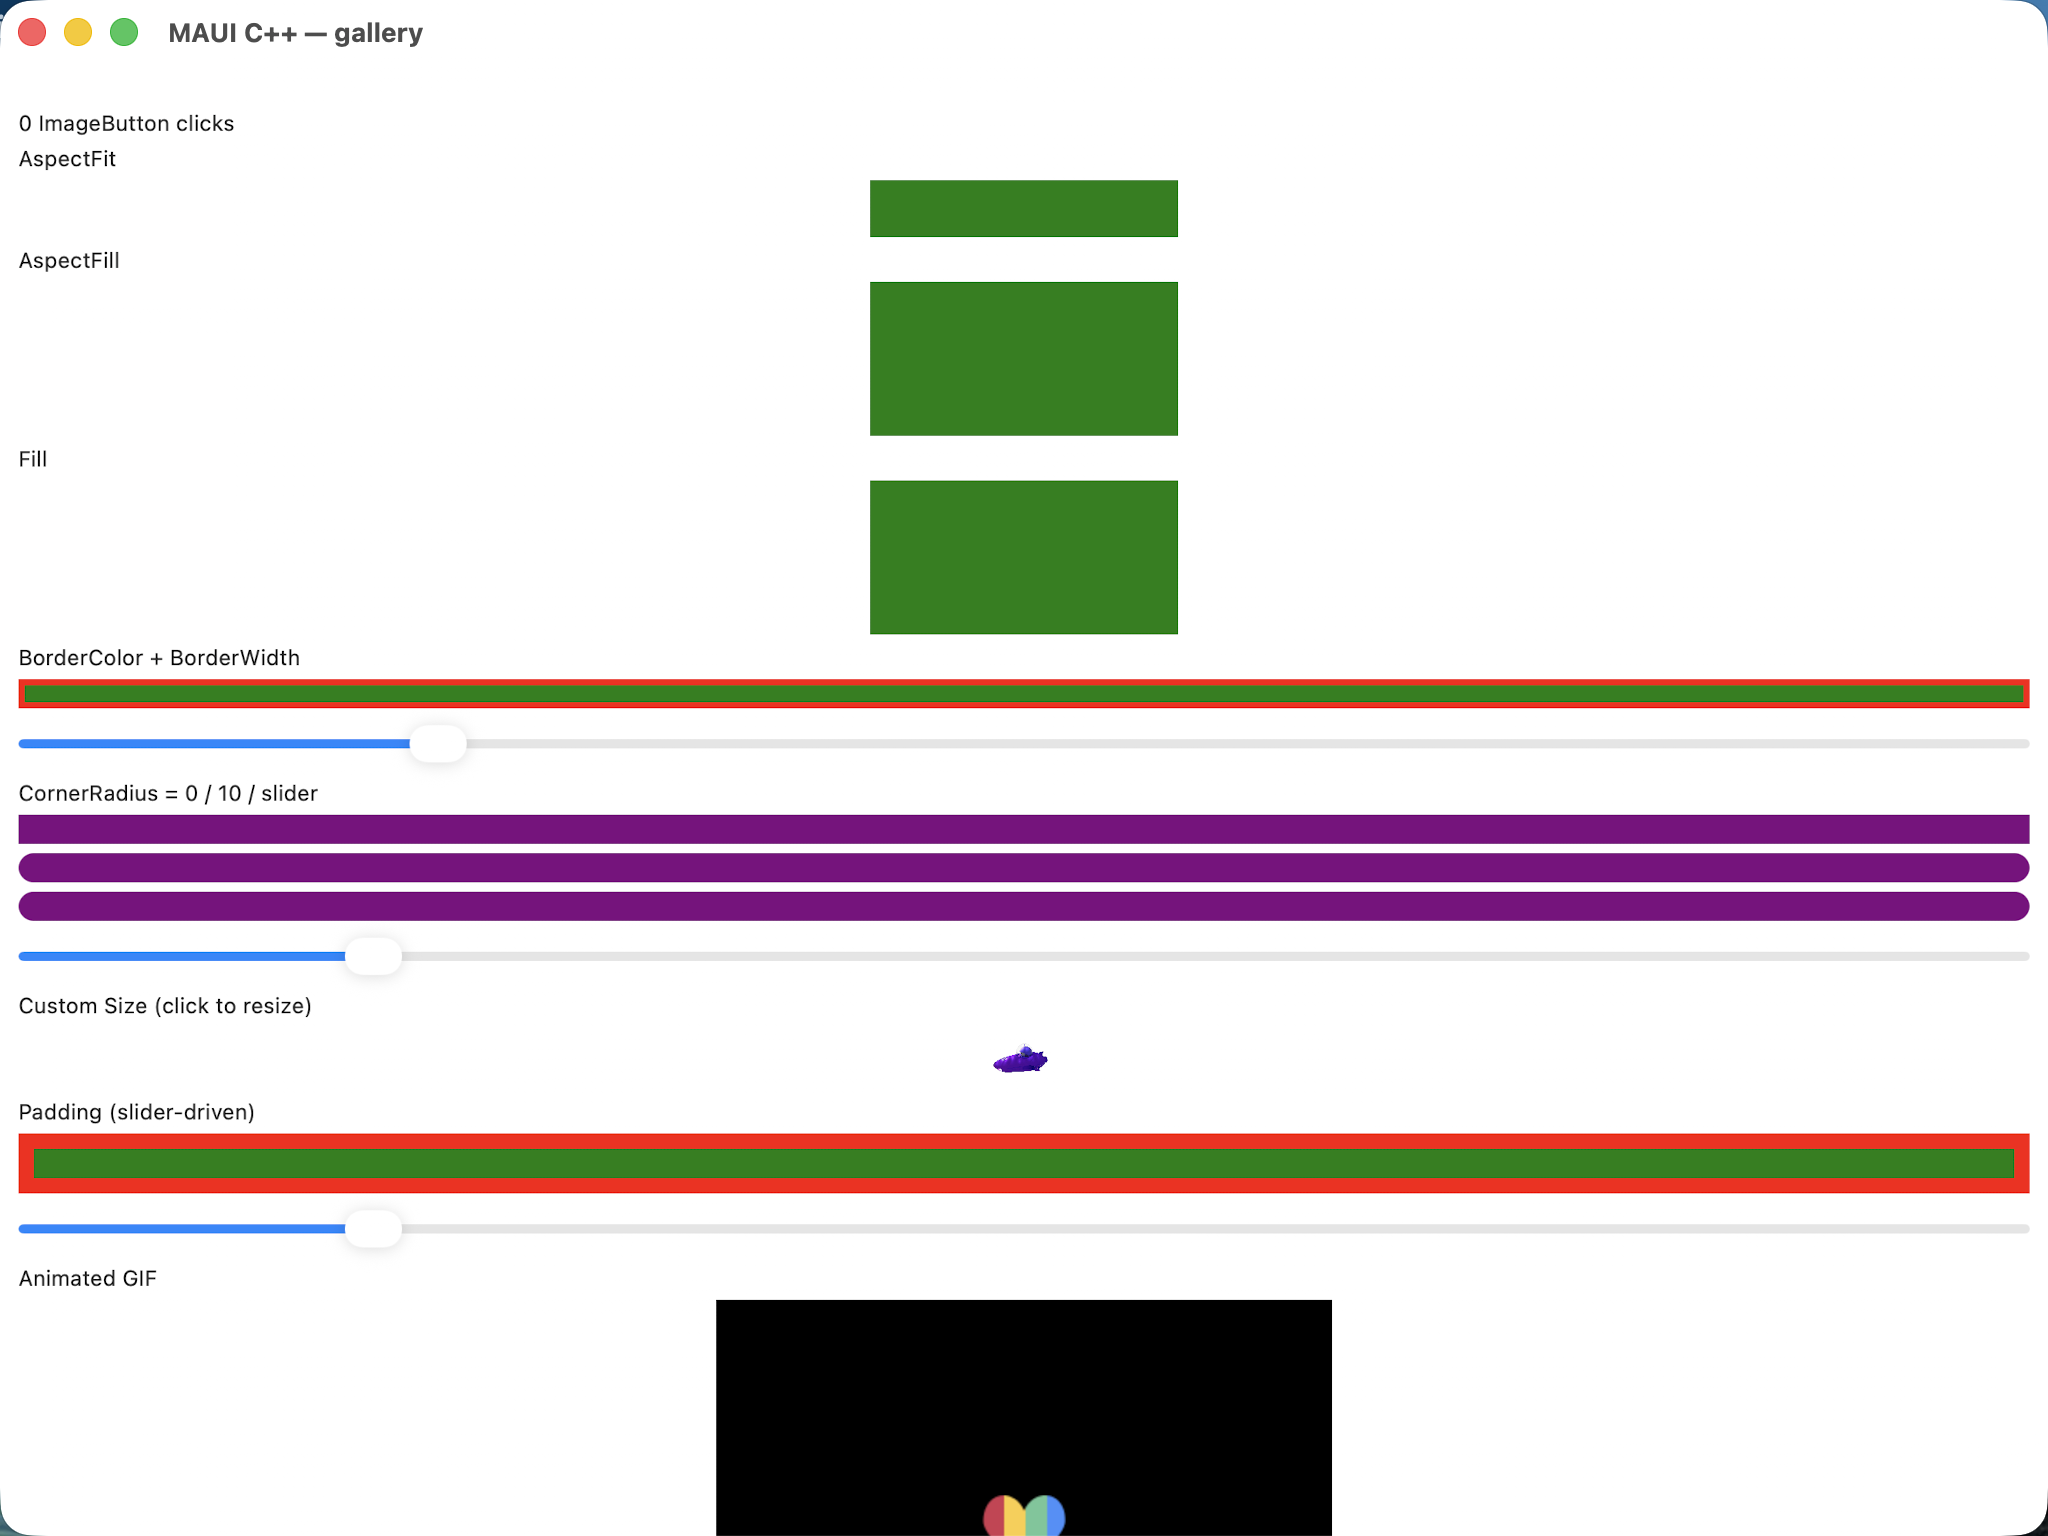
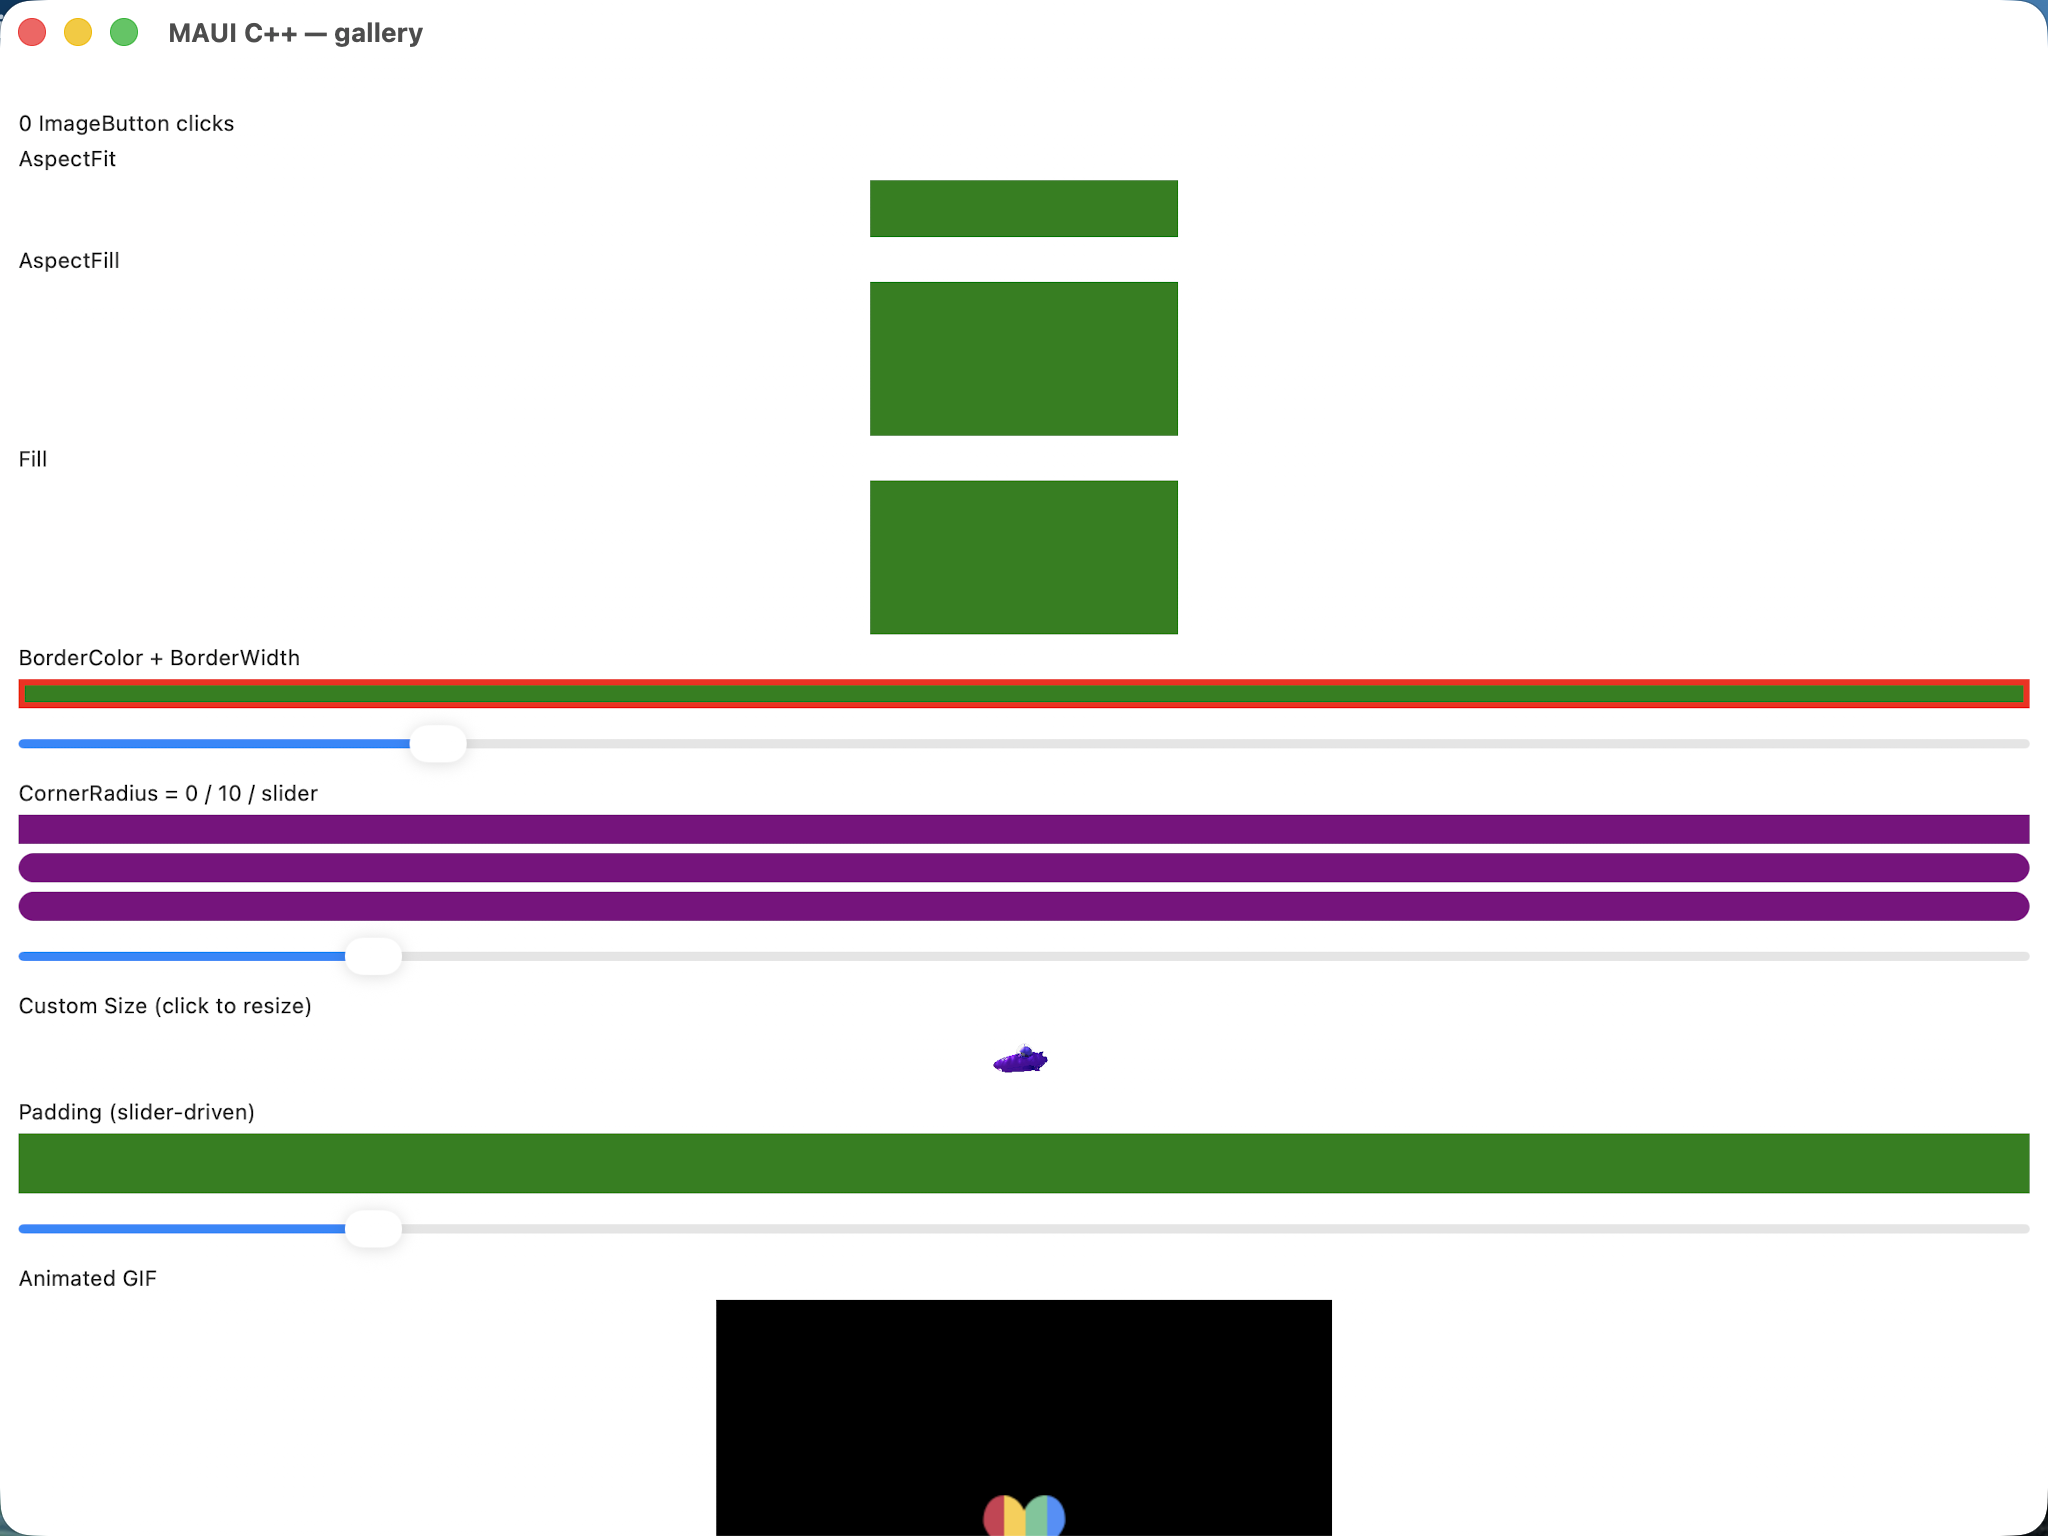
fix(gallery): image_button Padding/Background rows had a stray red border
Both the "Padding (slider-driven)" and "Background (toggle)" ImageButtons
carried copy-pasted set_stroke_color(Red)/set_stroke_thickness(10) calls left
over from the adjacent "BorderColor + BorderWidth" row. The shared XAML sets
BorderColor/BorderWidth on only that one row; the Padding row rendered an
unwanted thick red border MAUI never draws. Drop the stray calls from both rows.

Changed region(s): [[0.0, 0.7188, 1.0, 0.7812]]

diff --git a/port/cpp/examples/gallery/pages/image_button_page.hpp b/port/cpp/examples/gallery/pages/image_button_page.hpp
@@ -120,8 +120,6 @@ namespace maui::samples
             padding_label_.set_text("Padding (slider-driven)");
             padding_button_.set_aspect(maui::core::aspect::aspect_fit);
             padding_button_.set_source(maui::controls::image_source::from_file("cog.png"));
-            padding_button_.set_stroke_color(maui::graphics::colors::red);
-            padding_button_.set_stroke_thickness(10);
             padding_button_.set_background_brush(
                 std::make_shared<maui::controls::solid_color_brush>(maui::graphics::colors::green));
             padding_button_.set_padding(maui::core::thickness(10));
@@ -146,8 +144,6 @@ namespace maui::samples
             background_label_.set_text("Background (toggle)");
             background_button_.set_aspect(maui::core::aspect::aspect_fit);
             background_button_.set_source(maui::controls::image_source::from_file("cog.png"));
-            background_button_.set_stroke_color(maui::graphics::colors::red);
-            background_button_.set_stroke_thickness(10);
             background_button_.set_padding(maui::core::thickness(0));
             apply_background();
             update_background_button_.set_text("Update Background");
